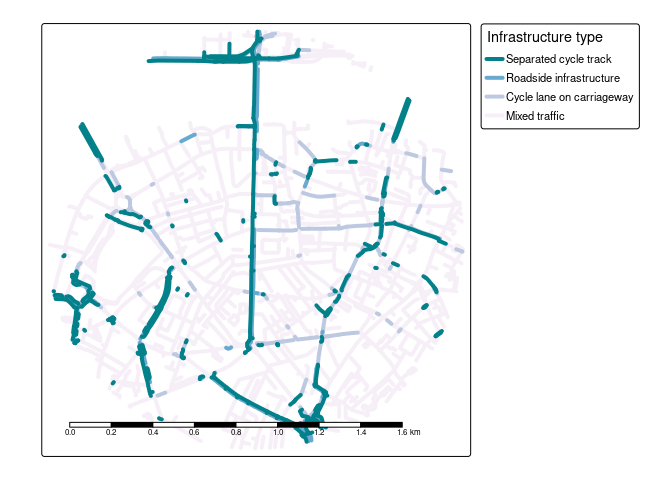
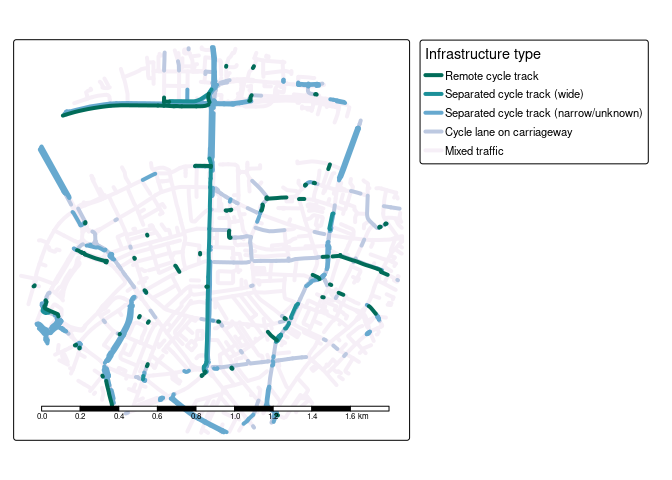
Update images in README

diff --git a/README.md b/README.md
@@ -102,23 +102,31 @@ m
 ## Edinburgh example
 
 ``` r
+devtools::load_all()
+library(tidyverse)
 edinburgh = zonebuilder::zb_zone("Edinburgh")
 edinburgh_3km = edinburgh |>
   # Change number in next line to change zone size:
   filter(circle_id <= 2) |>
   sf::st_union()
 osm = get_travel_network("Scotland", boundary = edinburgh_3km, boundary_type = "clipsrc")
-#> 0...10...20...30...40...50...60...70...80...90...100 - done.
+#> 0...10...20...30...40...50...60...70...80.
+#> ..90...100 - done.
 #> Reading layer `lines' from data source 
 #>   `/home/robin/data/osm/geofabrik_scotland-latest.gpkg' using driver `GPKG'
-#> Simple feature collection with 44341 features and 31 fields
+#> Simple feature collection with 44341 features and 33 fields
 #> Geometry type: MULTILINESTRING
 #> Dimension:     XY
 #> Bounding box:  xmin: -3.236391 ymin: 55.9264 xmax: -3.140354 ymax: 55.98029
 #> Geodetic CRS:  WGS 84
 cycle_net = get_cycling_network(osm)
 drive_net = get_driving_network_major(osm)
-cycle_net = distance_to_road(cycle_net, drive_net)
+system.time({
+  cycle_net = distance_to_road(cycle_net, drive_net)
+})
+#>    user  system elapsed 
+#>   0.136   0.000   0.137
+# 0.269s with union, 0.071s without
 cycle_net = classify_cycle_infrastructure(cycle_net)
 m = plot_osm_tmap(cycle_net)
 m
@@ -186,15 +194,17 @@ m
 
 ``` r
 london = zonebuilder::zb_zone("Southwark Station", n_circles = 1)
+london = sf::st_union(london) |>
+  sf::st_make_valid()
 osm = get_travel_network(london, boundary = london, boundary_type = "clipsrc")
 #> 0...10...20...30...40...50...60...70...80...90...100 - done.
 #> Reading layer `lines' from data source 
 #>   `/home/robin/data/osm/geofabrik_greater-london-latest.gpkg' 
 #>   using driver `GPKG'
-#> Simple feature collection with 5856 features and 31 fields
+#> Simple feature collection with 6168 features and 33 fields
 #> Geometry type: MULTILINESTRING
 #> Dimension:     XY
-#> Bounding box:  xmin: -0.1188785 ymin: 51.49424 xmax: -0.09009279 ymax: 51.51222
+#> Bounding box:  xmin: -0.1189676 ymin: 51.4957 xmax: -0.09016682 ymax: 51.51368
 #> Geodetic CRS:  WGS 84
 cycle_net = get_cycling_network(osm)
 drive_net = get_driving_network_major(osm)
